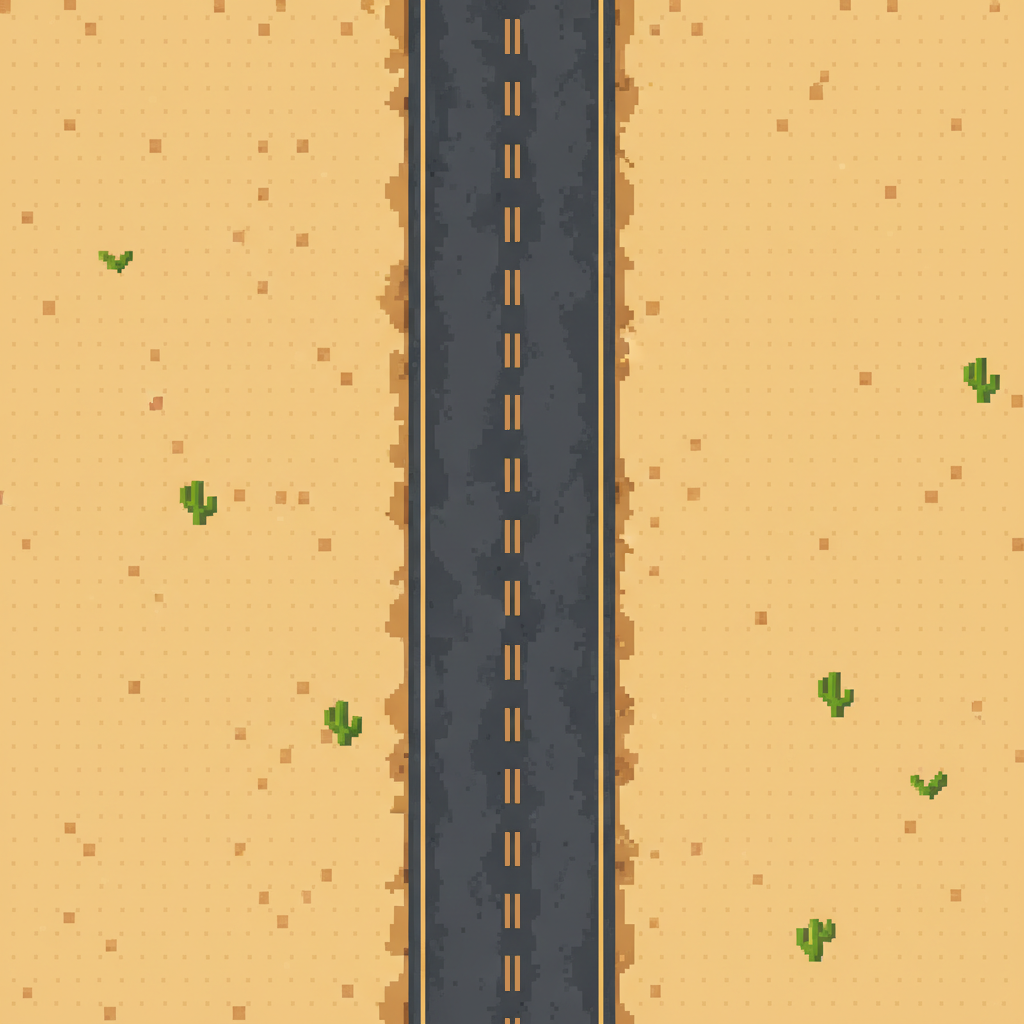
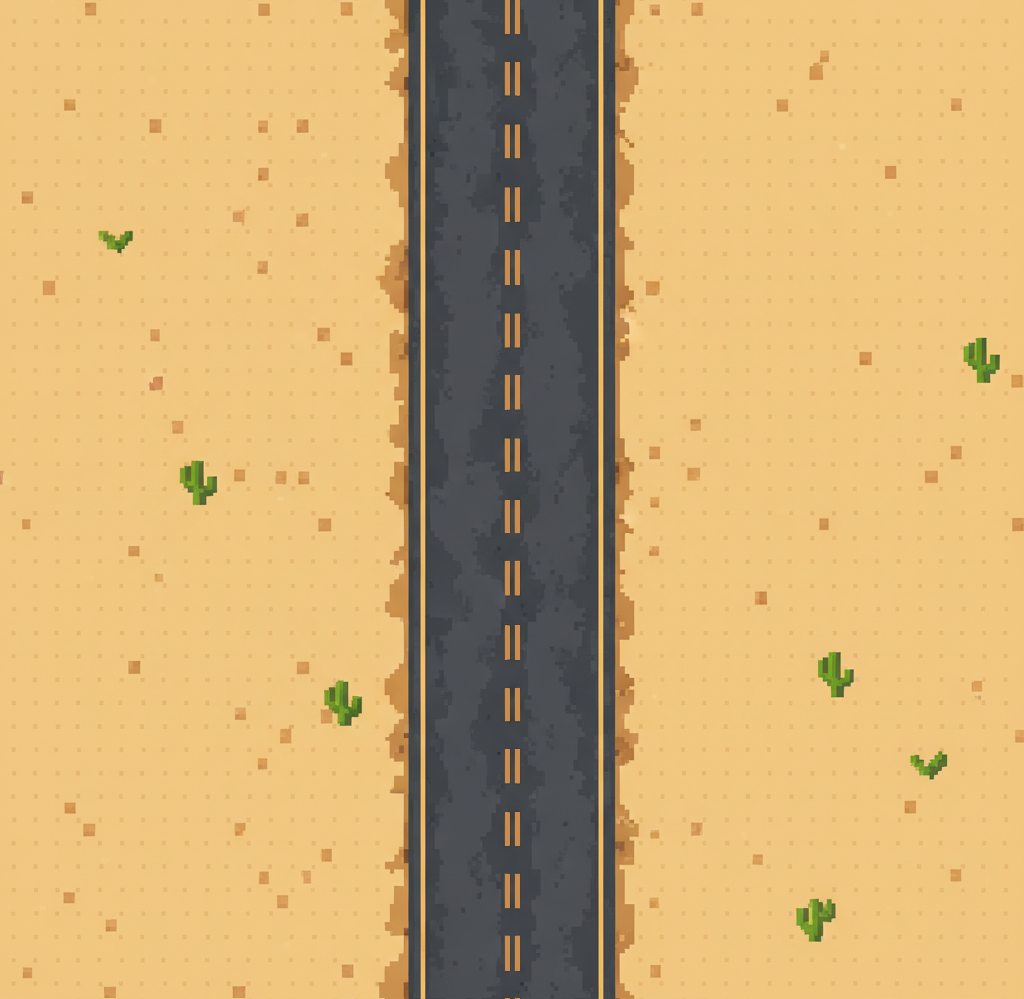
WP-A2: seamless road tile, 1024x1024 -> 1024x999 (ISSUE-3, art only)
Measured dash signal (exact-c98d53 pixels, stripes x505-509/515-519,
in phase): 17 dash onsets at y=19..1018, mean period 62.4375px
(FFT peak bin k=16 -> 64.0px; start-to-start range 61-64px, hand-drawn
jitter). 1024px height is not a whole number of cycles, so the wrap
showed gap-asphalt (row 0) against dash-gold (row 1023): the seam.

Fix: crop source rows 20..1018 (999px = exactly 16 dash cycles) and
copy row 0 over the last row, so first/last rows are identical and the
wrap lands mid-dash-onset with the natural 27px gap before it and a
35px dash across it (both inside the art's 27-30px / 33-35px ranges).
Width stays 1024; tilePositionX=272 maths unchanged; dashes stay
exactly c98d53 (no palette change); rebake is per-pixel deterministic
so baked row 0 == baked row 998 (pixel diff 0). Phaser TileSprite
wraps by texture size, so no scroll-code change; one comment added
at the road setup. audit passes, regressions pass.\n\nCo-Authored-By: Claude Sonnet 5.5 <noreply@anthropic.com>

diff --git a/src/scenes/GameScene.js b/src/scenes/GameScene.js
@@ -45,7 +45,8 @@ export class GameScene extends Phaser.Scene {
     });
     this.load.start();
 
-    // 2. Road
+    // 2. Road (texture 1024x999 holds 16 whole dash cycles; first/last rows
+    // identical so the vertical wrap is seamless; Phaser wraps by texture size)
     this.road = this.add.tileSprite(240, 320, 480, 640, 'road');
     this.road.setTileScale(1.0);
     this.road.tilePositionX += ROAD.tilePositionX;
